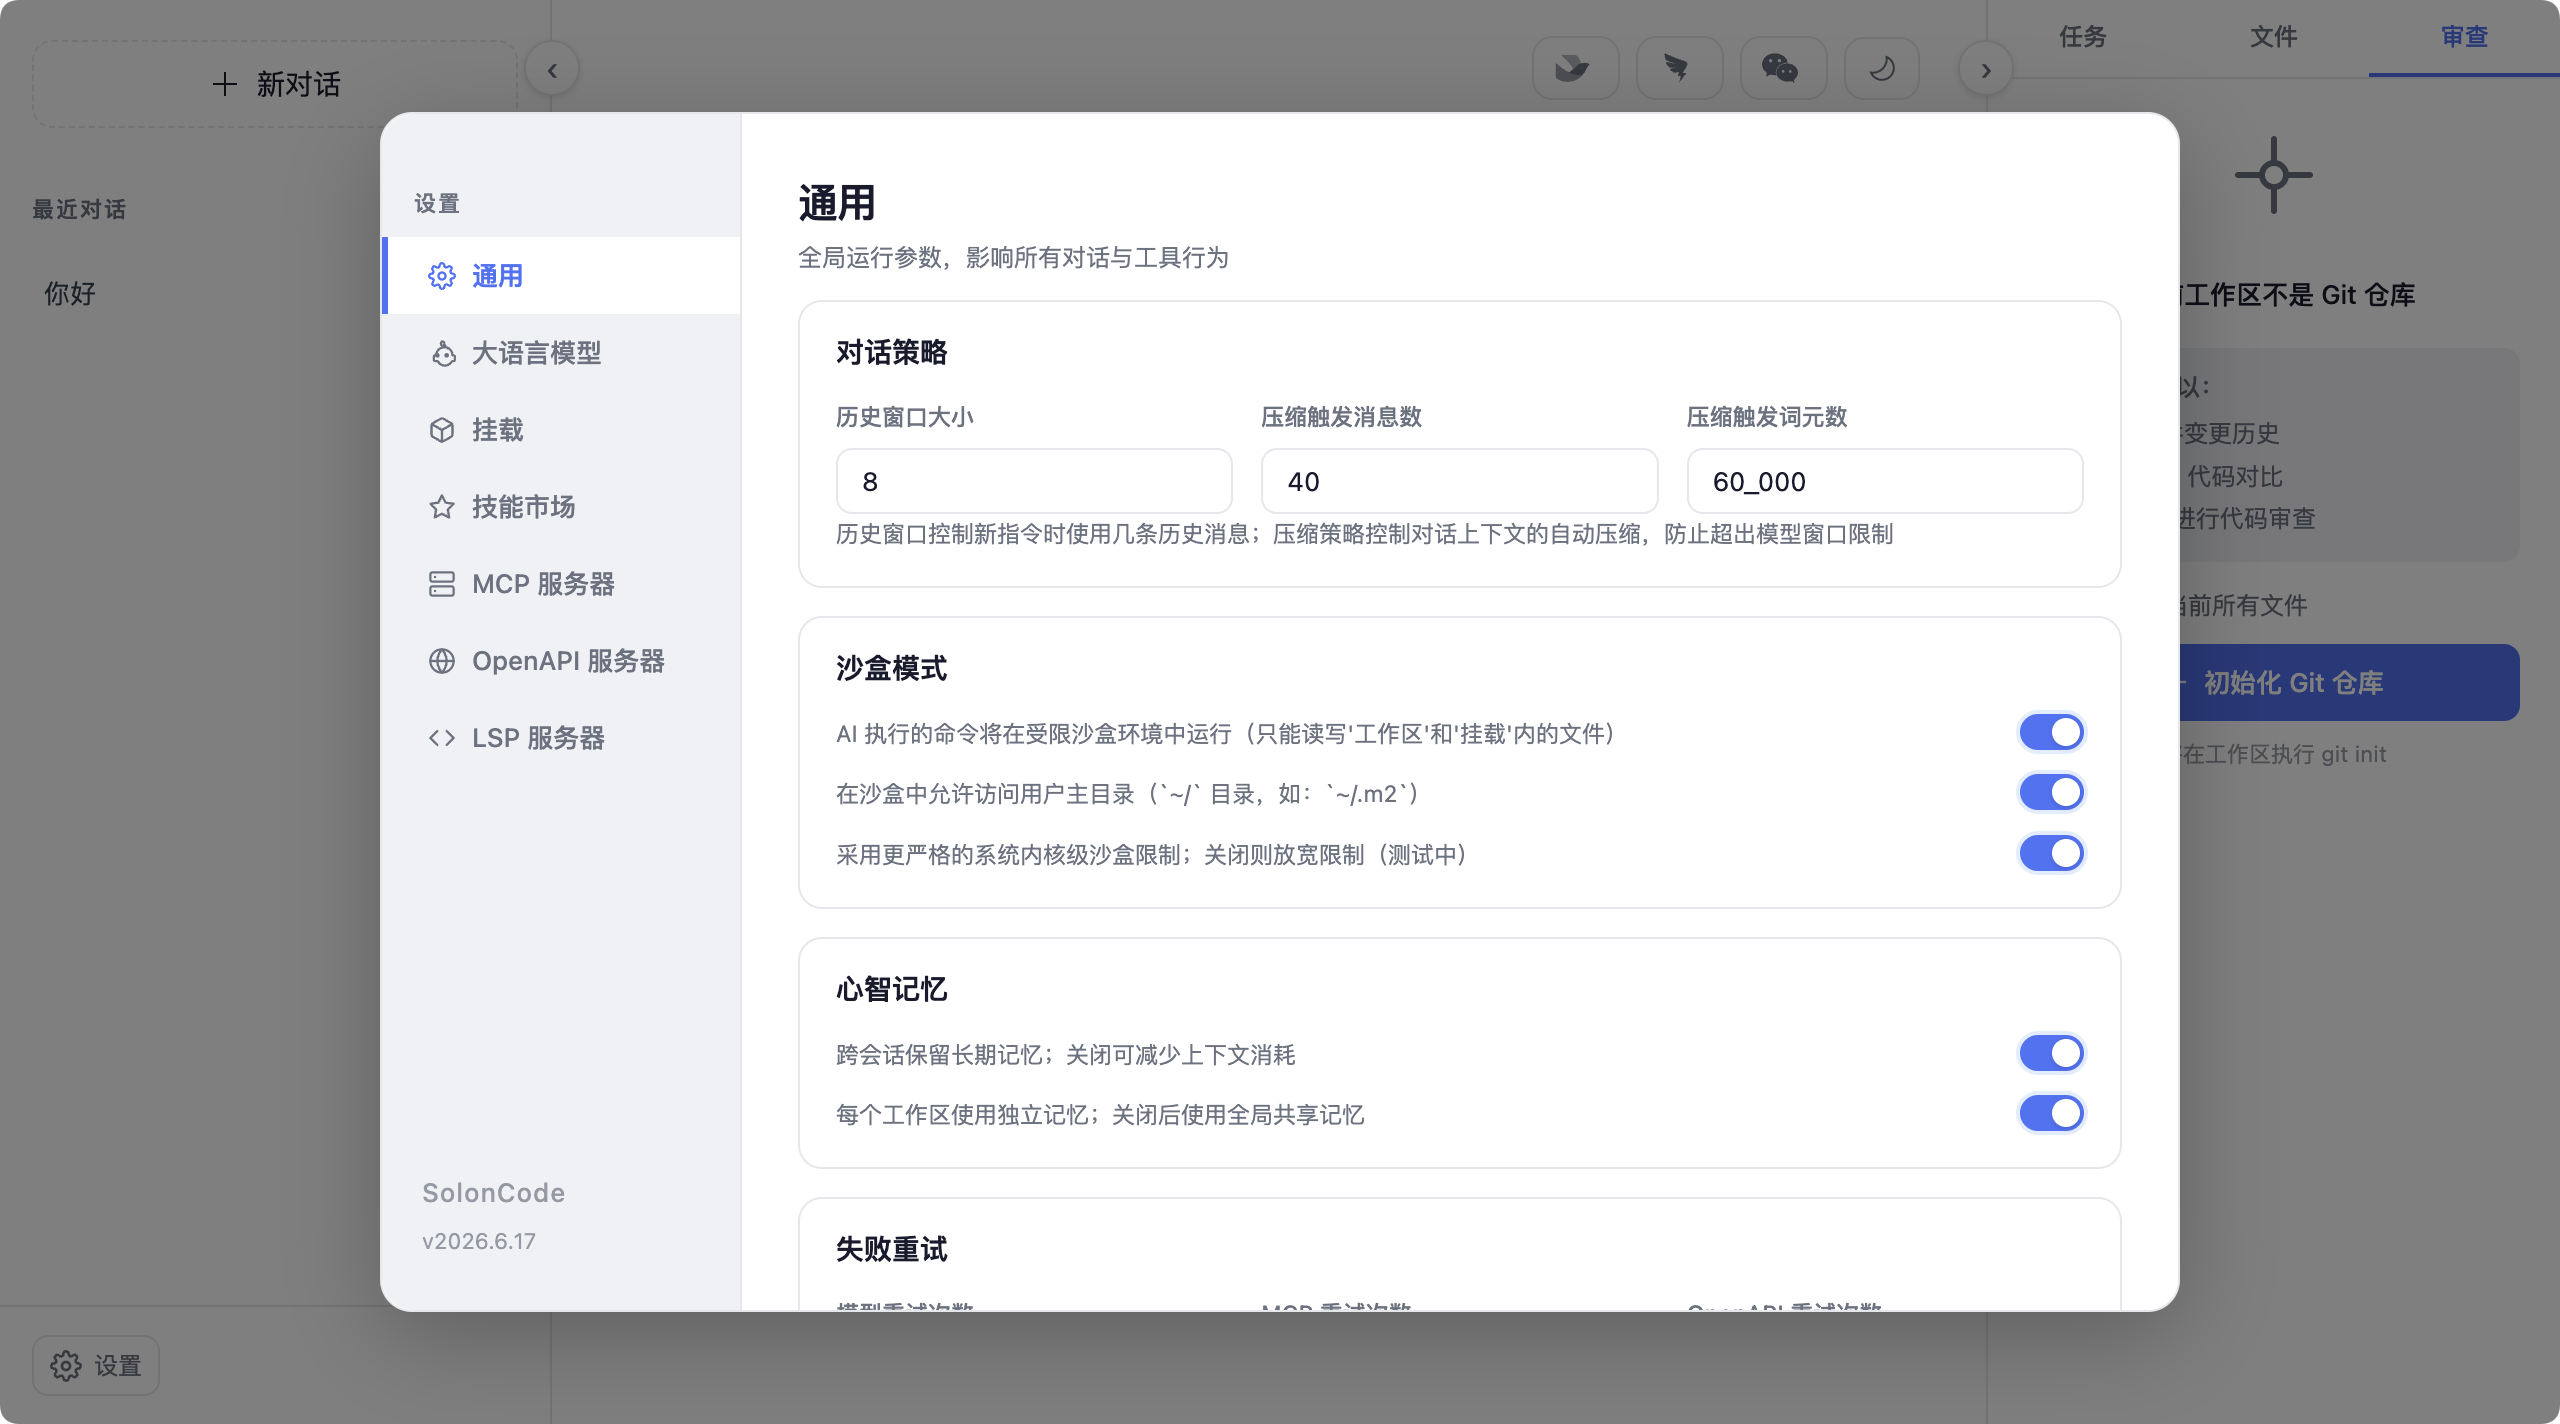
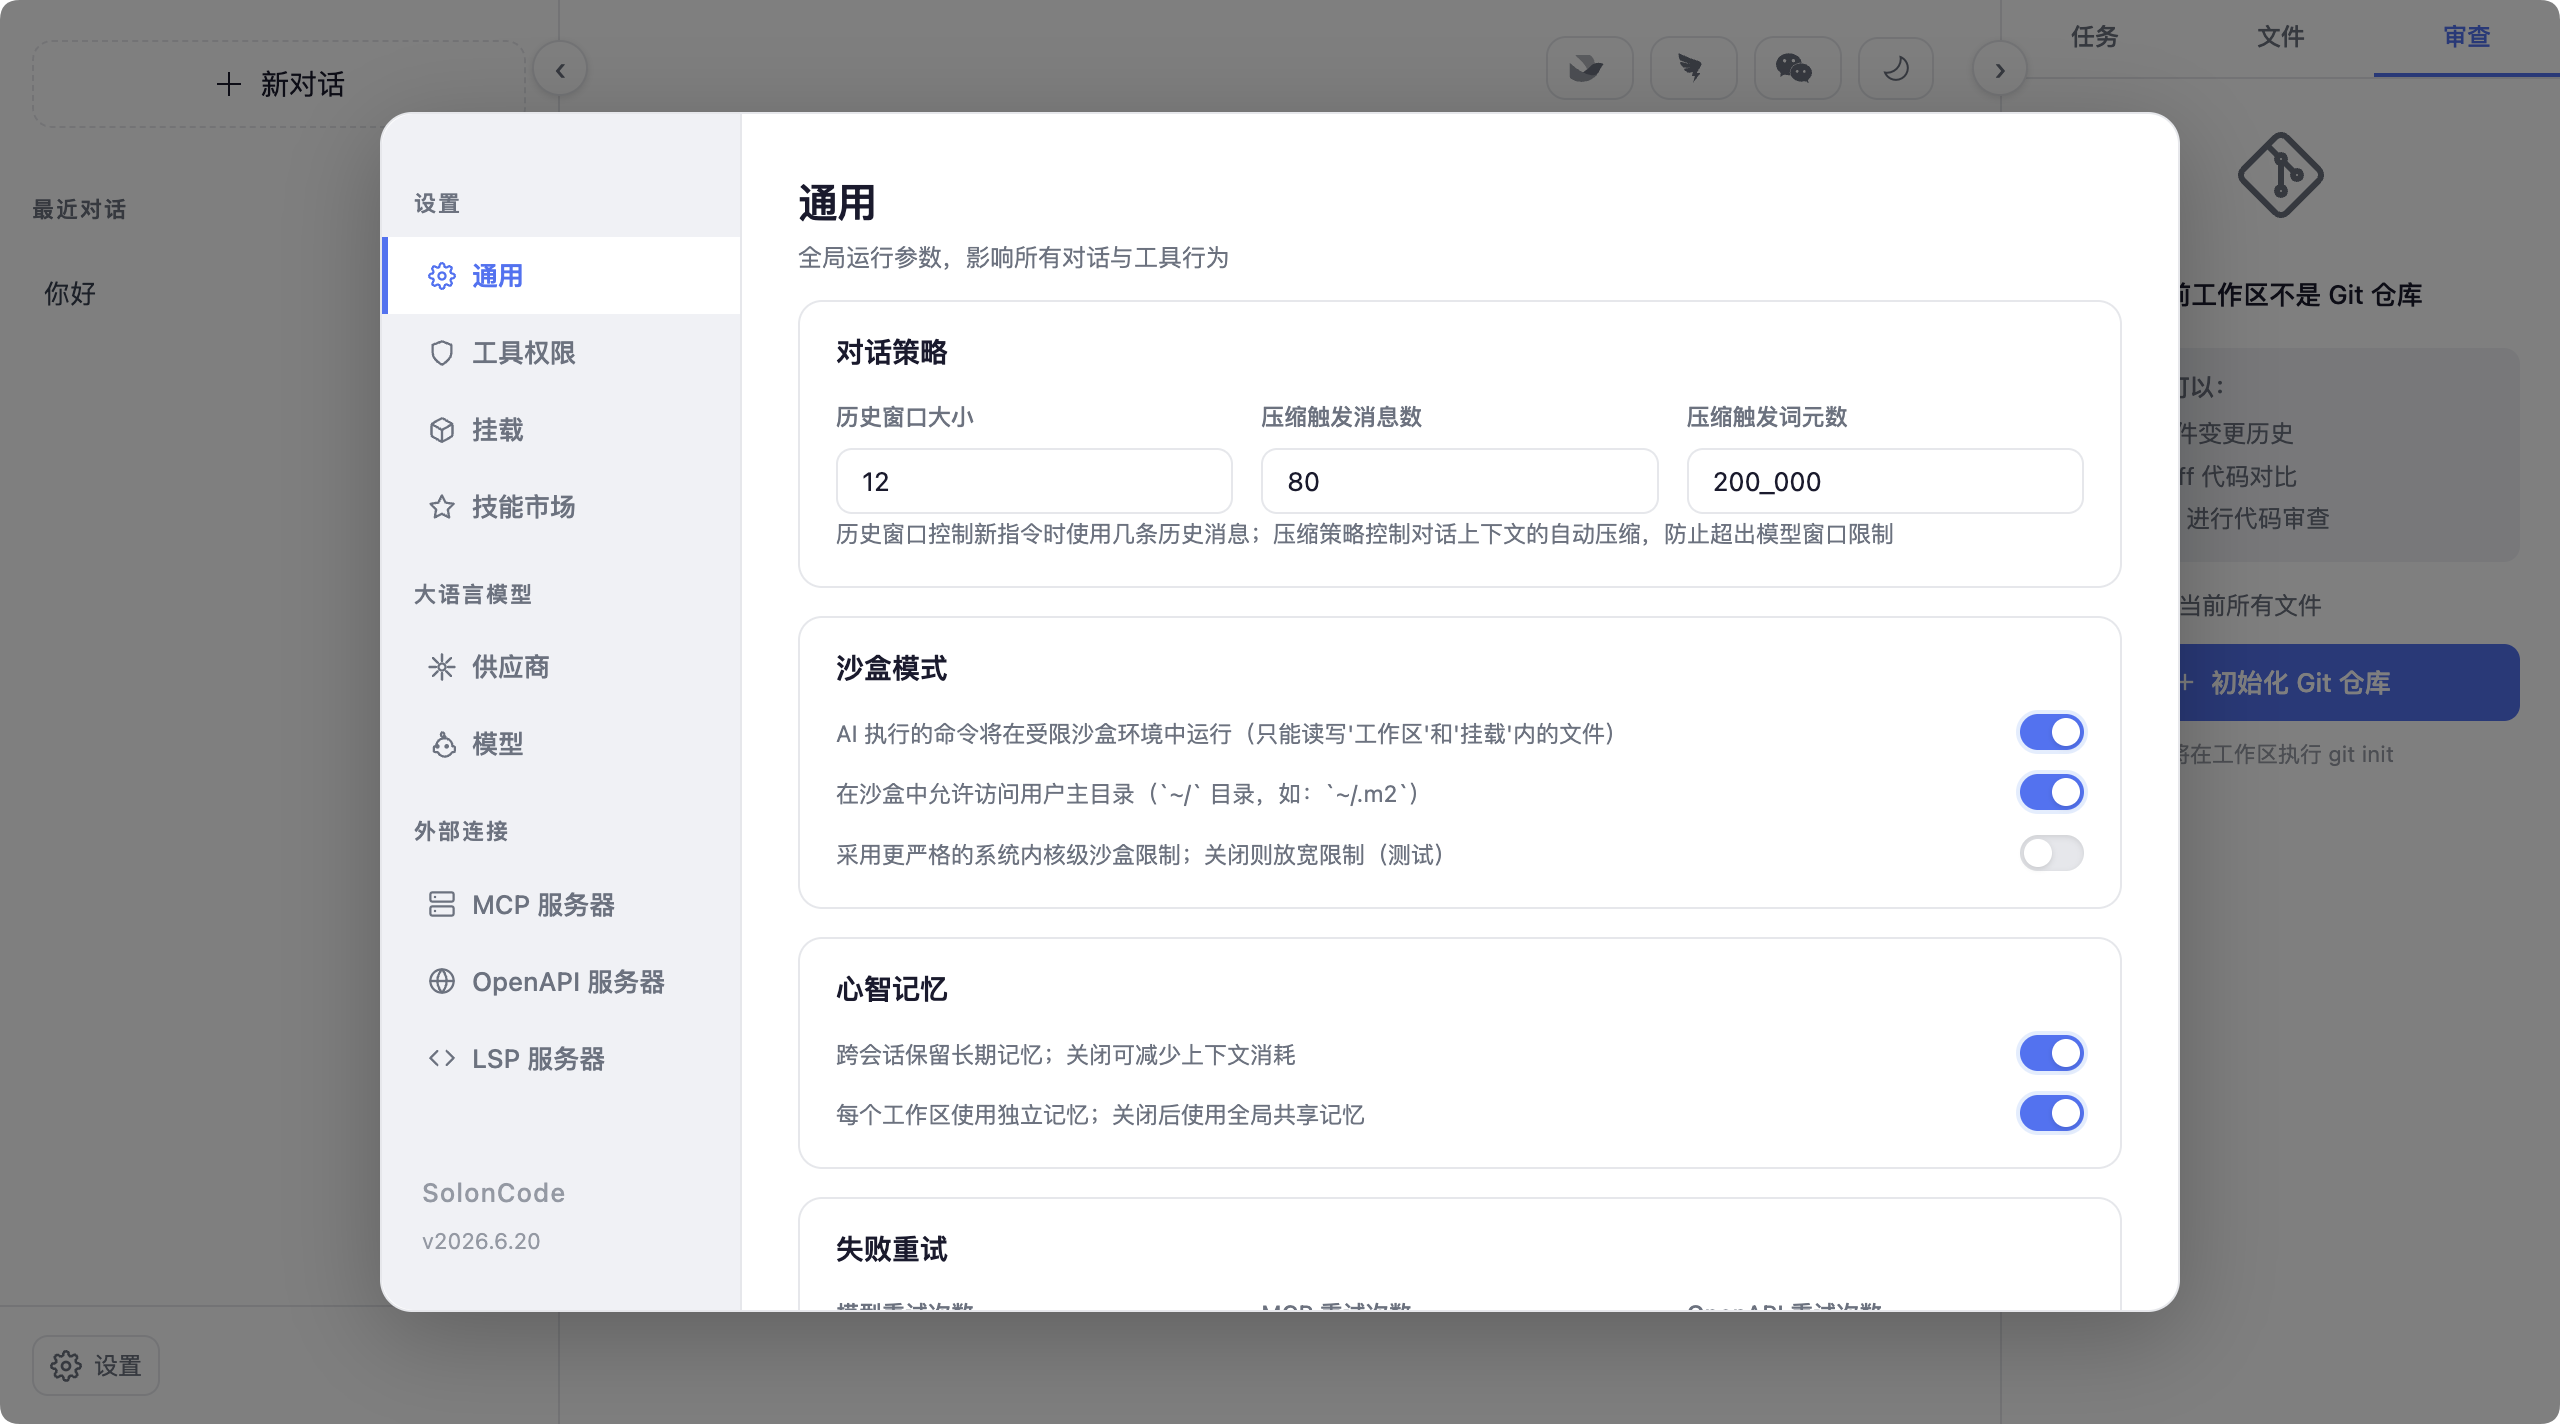
SHOW

diff --git a/soloncode-cli/src/main/resources/static/web.html b/soloncode-cli/src/main/resources/static/web.html
@@ -366,7 +366,7 @@
                 <button class="settings-tab" data-tab="providers"><svg width="14" height="14" viewBox="0 0 24 24" fill="none" stroke="currentColor" stroke-width="2" stroke-linecap="round" stroke-linejoin="round"><circle cx="12" cy="12" r="3"/><path d="M12 1v6M12 17v6M4.22 4.22l4.24 4.24M15.54 15.54l4.24 4.24M1 12h6M17 12h6M4.22 19.78l4.24-4.24M15.54 8.46l4.24-4.24"/></svg> 供应商</button>
                 <button class="settings-tab" data-tab="llm"><svg width="14" height="14" viewBox="0 0 24 24" fill="none" stroke="currentColor" stroke-width="2" stroke-linecap="round" stroke-linejoin="round"><path d="M12 2a2 2 0 0 1 2 2c0 .74-.4 1.39-1 1.73V7h1a7 7 0 0 1 7 7h1a1 1 0 0 1 1 1v3a1 1 0 0 1-1 1h-1.27a7 7 0 0 1-12.46 0H6a1 1 0 0 1-1-1v-3a1 1 0 0 1 1-1h1a7 7 0 0 1 7-7h1V5.73A2 2 0 0 1 12 2z"/><circle cx="8" cy="14" r="1"/><circle cx="16" cy="14" r="1"/></svg> 模型</button>
 
-                <div class="sidebar-title" style="padding:16px 16px 8px;font-size:11px;color:var(--text-secondary);font-weight:600;letter-spacing:1px;text-transform:uppercase;">服务器</div>
+                <div class="sidebar-title" style="padding:16px 16px 8px;font-size:11px;color:var(--text-secondary);font-weight:600;letter-spacing:1px;text-transform:uppercase;">外部连接</div>
                 <button class="settings-tab" data-tab="mcp"><svg width="14" height="14" viewBox="0 0 24 24" fill="none" stroke="currentColor" stroke-width="2" stroke-linecap="round" stroke-linejoin="round"><rect x="2" y="2" width="20" height="8" rx="2" ry="2"/><rect x="2" y="14" width="20" height="8" rx="2" ry="2"/><line x1="6" y1="6" x2="6.01" y2="6"/><line x1="6" y1="18" x2="6.01" y2="18"/></svg> MCP 服务器</button>
                 <button class="settings-tab" data-tab="openapi"><svg width="14" height="14" viewBox="0 0 24 24" fill="none" stroke="currentColor" stroke-width="2" stroke-linecap="round" stroke-linejoin="round"><circle cx="12" cy="12" r="10"/><line x1="2" y1="12" x2="22" y2="12"/><path d="M12 2a15.3 15.3 0 0 1 4 10 15.3 15.3 0 0 1-4 10 15.3 15.3 0 0 1-4-10 15.3 15.3 0 0 1 4-10z"/></svg> OpenAPI 服务器</button>
                 <button class="settings-tab" data-tab="lsp"><svg width="14" height="14" viewBox="0 0 24 24" fill="none" stroke="currentColor" stroke-width="2" stroke-linecap="round" stroke-linejoin="round"><polyline points="16 18 22 12 16 6"/><polyline points="8 6 2 12 8 18"/></svg> LSP 服务器</button>